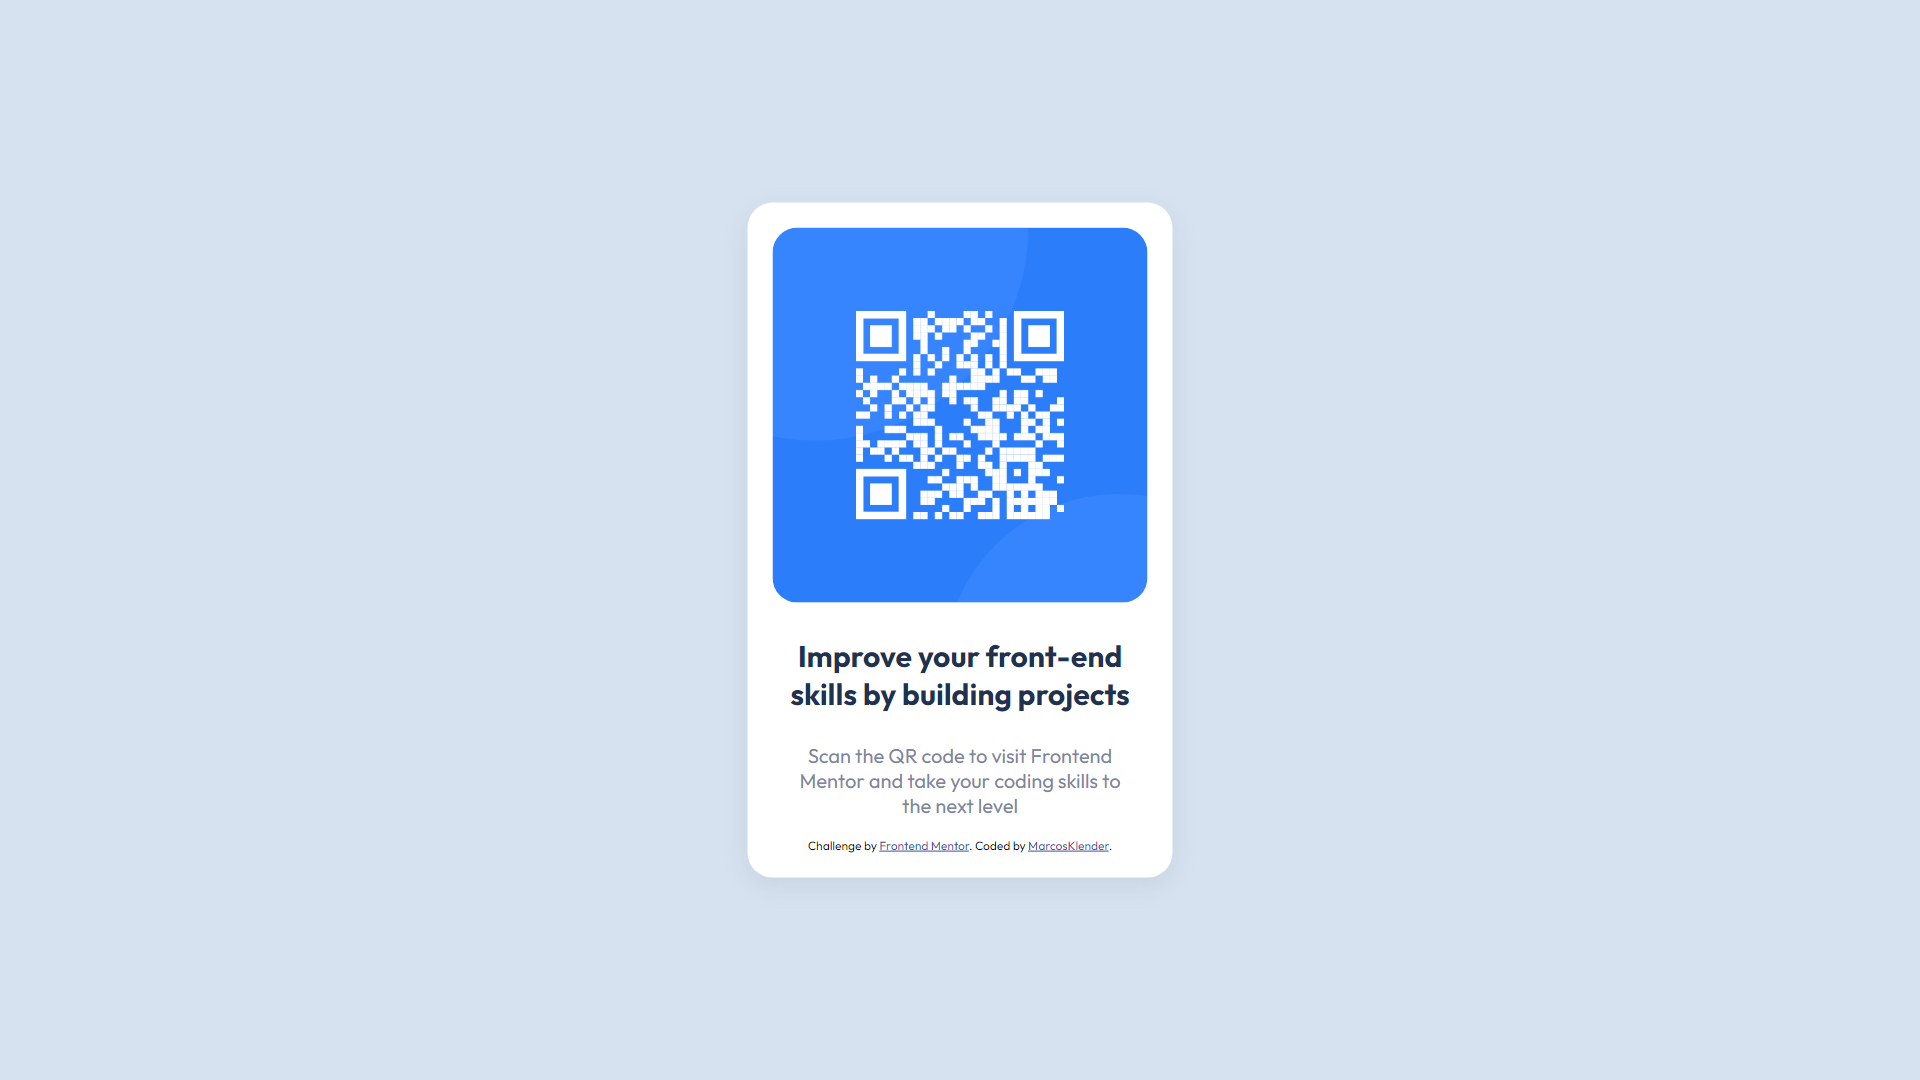
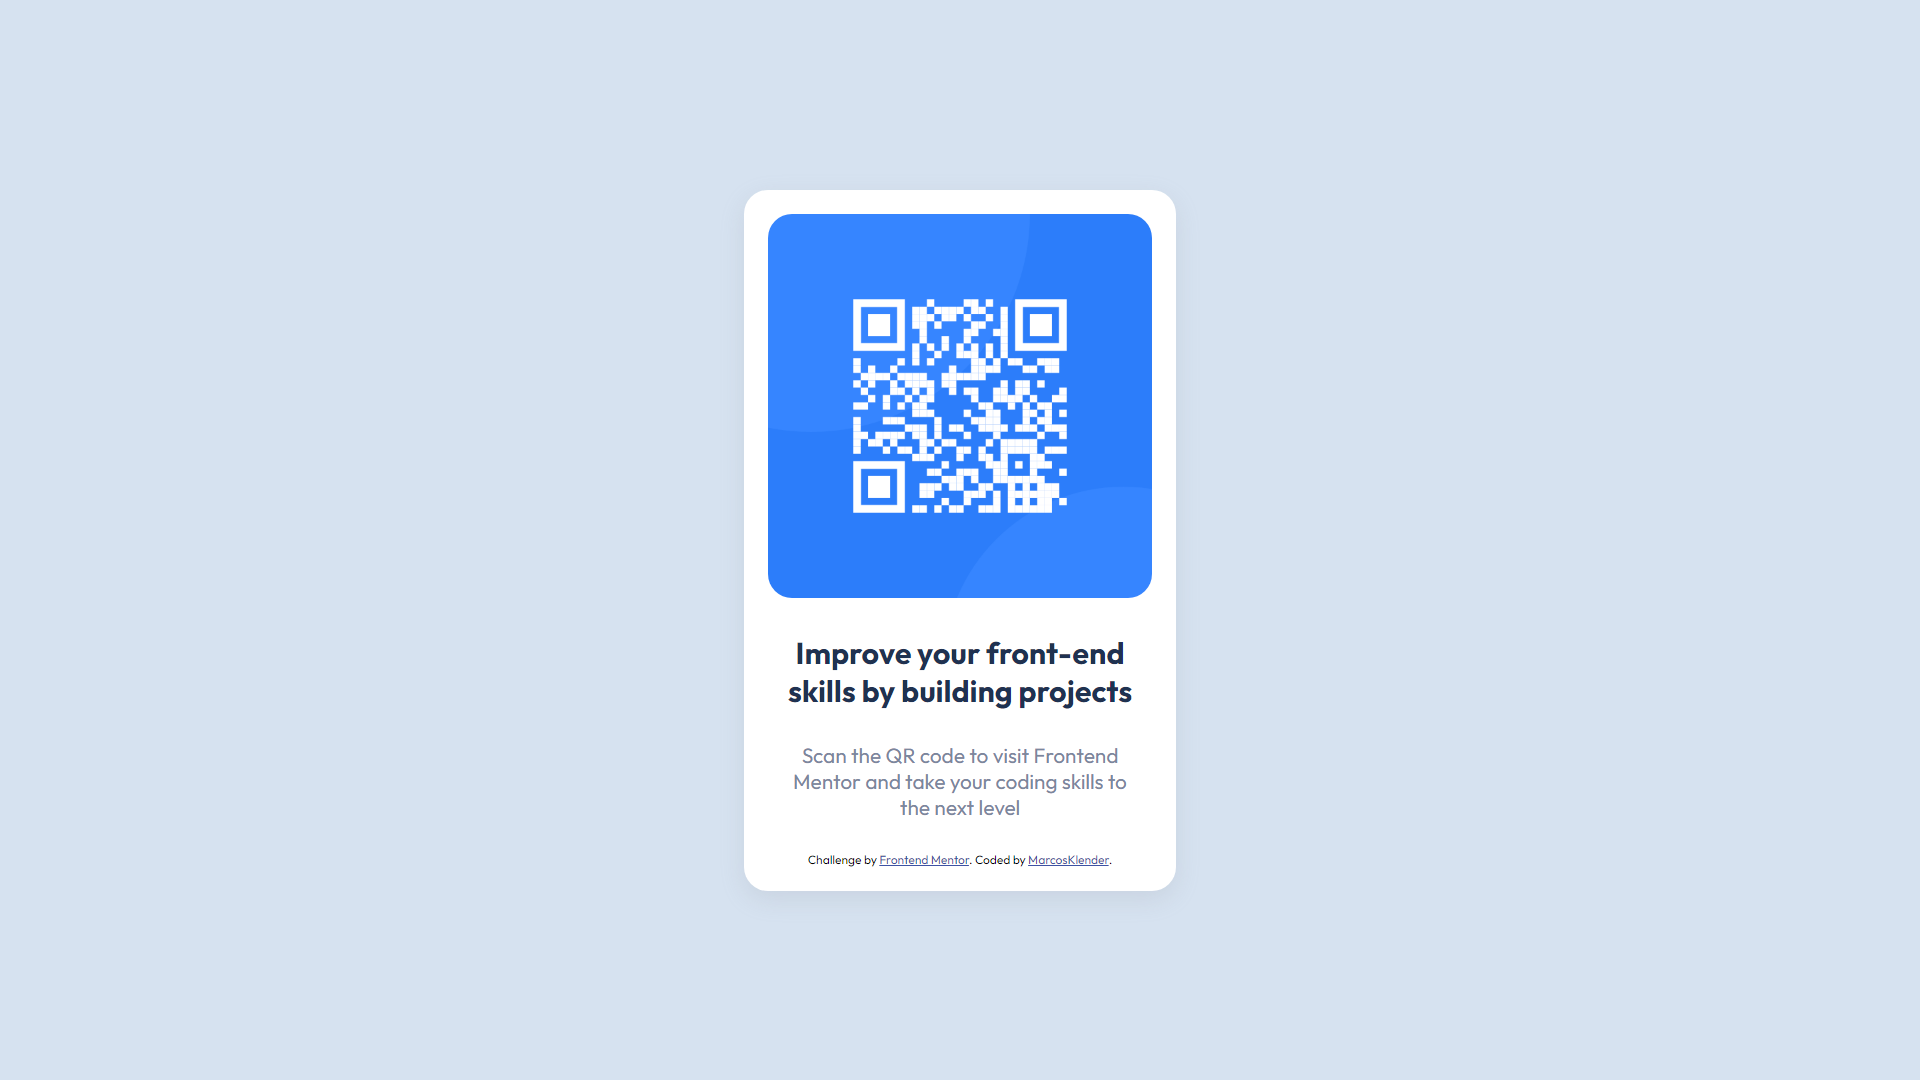
Code optimization. Thanks @denielden!

Changed region(s): [[0.375, 0.55, 0.625, 0.825], [0.375, 0.1528, 0.625, 0.55], [0.4375, 0.275, 0.5625, 0.4889]]

diff --git a/style.css b/style.css
@@ -1,52 +1,55 @@
+* {
+  margin: 0;
+  padding: 0;
+}
+
 html {
   font-family: "Outfit", sans-serif;
   background-color: hsl(212, 45%, 89%);
 }
 
 main {
-  position: absolute;
-  top: 50%;
-  left: 50%;
-  -ms-transform: translate(-50%, -50%);
-  transform: translate(-50%, -50%);
-
   background-color: hsl(0, 0%, 100%);
-  padding: 25px;
-  width: 375px;
-  box-shadow: rgba(149, 157, 165, 0.2) 0px 8px 24px;
-  border-radius: 25px;
+  padding: 1.5rem;
+  width: 24rem;
+  box-shadow: rgba(149, 157, 165, 0.2) 0rem 0.5rem 1.5rem;
+  border-radius: 1.5rem;
 }
 
 @media only screen and (max-width: 600px) {
   main {
-    width: 80%;
-    height: auto;
+    width: 80vw;
   }
+}
+
+body {
+  display: flex;
+  justify-content: center;
+  align-items: center;
+  min-height: 100vh;
 }
 
 img {
   width: 100%;
-  border-radius: 25px;
-}
-
-.content {
-  text-align: center;
+  border-radius: 1.5rem;
 }
 
 h1 {
   color: hsl(218, 44%, 22%);
-  font-size: 30px;
-  padding: 5px 0px 5px 0px;
+  font-size: 1.9rem;
+  margin: 2rem 1rem 2rem 1rem;
+  text-align: center;
 }
 
 p {
   color: hsl(220, 15%, 55%);
-  font-size: 20px;
-  padding: 0px 15px 0px 15px;
+  font-size: 1.3rem;
+  margin: 0rem 1rem 2rem 1rem;
+  text-align: center;
 }
 
 .attribution {
-  font-size: 12px;
+  font-size: 0.75rem;
   text-align: center;
 }
 

diff --git a/index.html b/index.html
@@ -16,13 +16,9 @@
 
 <body>
   <main>
-    <section class="image">
-      <img src="images/image-qr-code.png" alt="QR Code Image">
-    </section>
-    <section class="content">
-      <h1>Improve your front-end skills by building projects</h1>
-      <p>Scan the QR code to visit Frontend Mentor and take your coding skills to the next level</p>
-    </section>
+    <img src="images/image-qr-code.png" alt="QR Code Image">
+    <h1>Improve your front-end skills by building projects</h1>
+    <p>Scan the QR code to visit Frontend Mentor and take your coding skills to the next level</p>
     <div class="attribution">
       Challenge by <a href="https://www.frontendmentor.io?ref=challenge" target="_blank">Frontend Mentor</a>.
       Coded by <a href="https://marcosklender.com" target="_blank">MarcosKlender</a>.
